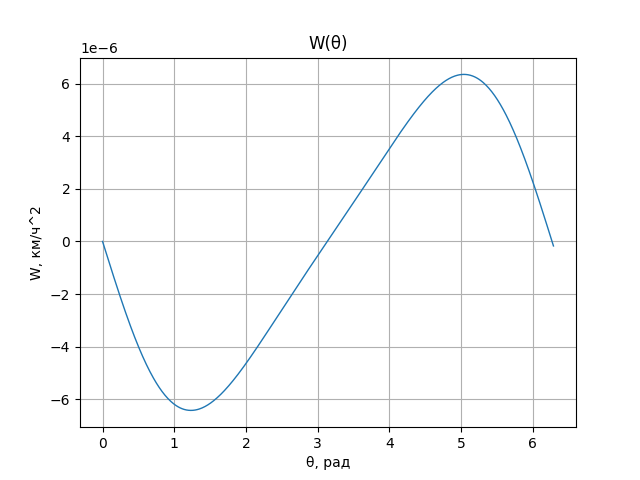
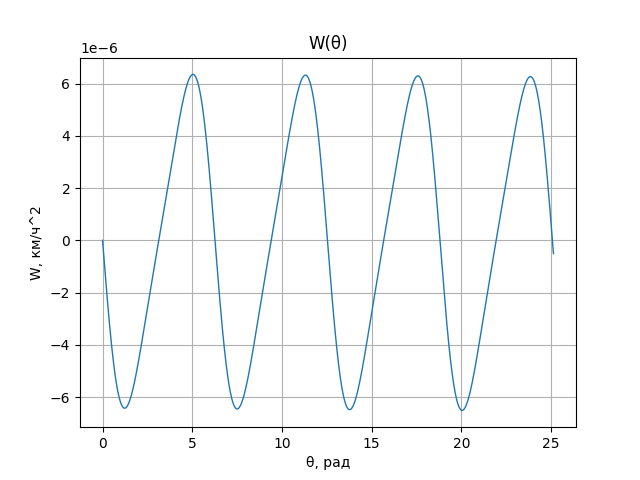
update

diff --git a/КР/main.py b/КР/main.py
@@ -3,7 +3,8 @@ from functions import *
 import numpy as np
 import matplotlib.pyplot as plt
 
-theta_list = list(np.arange(0, 2 * math.pi + d_theta, d_theta))
+revolutions = 8  # Количество оборотов
+theta_list = list(np.arange(0, revolutions * math.pi + d_theta, d_theta))
 r_list = []
 p_list = []
 OMEGA_list = []
@@ -15,12 +16,16 @@ S_list = []
 T_list = []
 W_list = []
 
+# НАЧАЛЬНЫЕ ЗНАЧЕНИЯ
+# ==========================================================
 a = get_a(ra=Earth_radius + h_a, rp=Earth_radius + h_p)
 e = get_e(ra=Earth_radius + h_a, rp=Earth_radius + h_p, a=a)
 p = get_p(a=a, e=e)
 omega = 0
 tau = 0
 r = get_r(p=p, e=e, theta=theta_list[0])
+# ==========================================================
+
 
 p_list.append(p)
 OMEGA_list.append(OMEGA)
